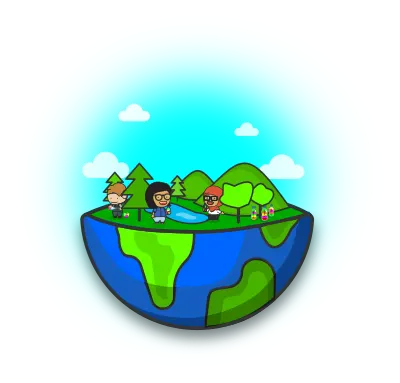
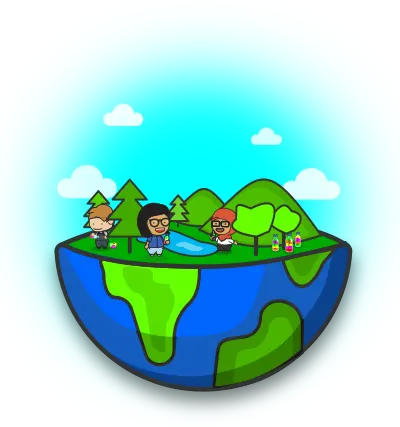
go

diff --git a/about.php b/about.php
@@ -271,7 +271,7 @@ _END;?>
                             <p>As ecobrickers ourselves, we packed our plastic, track and work hard to minimize our plastic consumption.  We build our home furniture and gardens with our ecobricks.  We use plastic offsetting to make sure our household and our enterprises are net green.</p>
 							<p>Our ecobricking has given us a chance to reflect on our own plastic consumption.  We feel that solving plastic is a lot more complex than bans and bamboo.  While such  steps are essential, deeply solving plastic requires an extensive transition of the very way our modern culture integrates with the biosphere.<p>
                             </div>
-                            <div class="side2"><img src="svgs/shanti.svg" width="75%">
+                            <div class="side2"><img src="svgs/shanti.svg" width="88%">
                             </div>
                         </div>
 
@@ -357,7 +357,7 @@ _END;?>
 								<p>Our enterprise follows the <a href="plastic">Earth's example</a> in generating ecological value.  We follow the <a href="https://earthen.io/the-earthen-ways/" target="_blank">six principles of Earthen ethics</a> to sequester carbon, distibute benefit upwards, support biodiversity, raise ecological awareness and acheive overall net-subtraction in our endeavours.</p><br>
 
                         </div>
-						<div class="side2"><img src="webp/earthservice-400px.webp" width="95%"></div>
+						<div class="side2"><img src="webp/earthservice-400px.webp" width="950%"></div>
 						<div class="side3"><img src="webp/earthservice-400px.webp" width="120px"></div>
 					</div>
 

diff --git a/sequest.php b/sequest.php
@@ -726,7 +726,7 @@ _END;?>
 			</div>
 
             <div id="side-module-desktop-mobile">
-				<img src="https://medium.com/earthen/the-six-earthen-ways-1b2db3d2b27" width="80%">
+				<img src="webp/earthen-500px.webp" width="80%">
 				<h4>Earthen Ethics</h4>
 				<h5>Plastic Sequestration is based on following the Earth's example of ecological enrichment. The philosophy of Earthen Ethics.</h5><br>
 				<a class="module-btn" href="https://medium.com/earthen/the-six-earthen-ways-1b2db3d2b27">Learn More</a>
